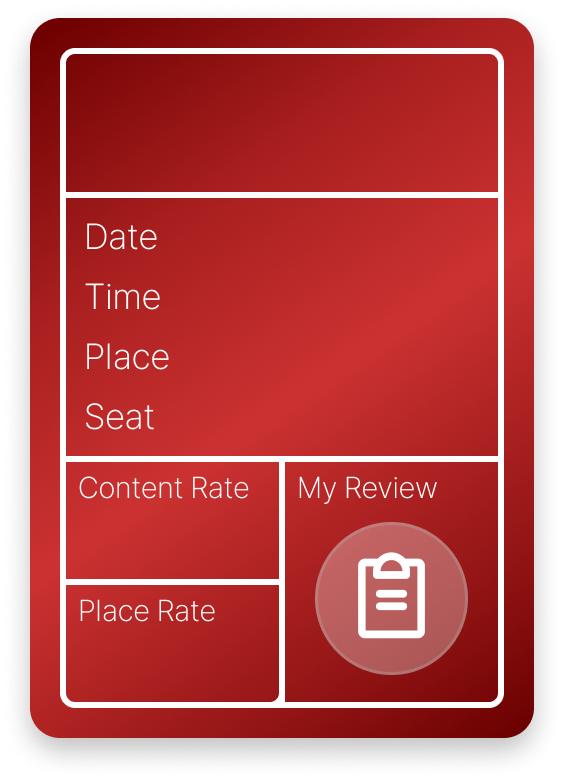
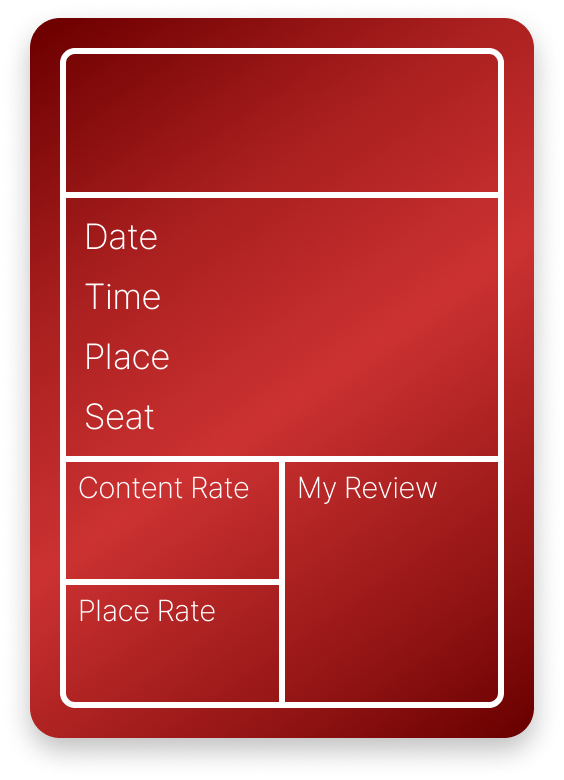
feat(ticketItem) : 티켓 스토리카드 버튼 적용

Changed region(s): [[0.5426, 0.6462, 0.844, 0.8923]]

diff --git a/frontend/src/components/TicketBook/TicketItem.js b/frontend/src/components/TicketBook/TicketItem.js
@@ -2,7 +2,7 @@ import React, { useRef, useState } from 'react';
 import { View, Text, ImageBackground, StyleSheet, Dimensions, Animated, TouchableWithoutFeedback, TouchableOpacity, Image, } from 'react-native';
 import { useNavigation } from '@react-navigation/native';
 
-import movieTicket from '../../images/ticekt_info_movie.png';
+import movieTicket from '../../images/ticket_info_movie.png';
 import performanceTicket from '../../images/ticket_info_performance.png';
 import sportsTicket from '../../images/ticket_info_sports.png';
 import playTicket from '../../images/ticket_info_play.png';
@@ -117,17 +117,25 @@ const TicketItem = ({ category, title, date, time, location, seat, contentsRatin
                 <View style={styles.bottomContainer}>
                   <Text numberOfLines={1} style={[styles.info, { marginTop: 12, textAlign: 'center' }]}>{contentsRating}</Text>
                 </View>
+                <View style={styles.buttonContainer}>
+                  <TouchableOpacity 
+                    onPress={reviewId !== 0 ? handleReviewClick : null} 
+                    style={[styles.reviewButton, { opacity: !isFront ? 1 : 0 }]}
+                    activeOpacity={reviewId !== 0 ? 0.2 : 1} // 터치 가능한 경우 activeOpacity 적용
+                    disabled={isFront} // isFront이 true일 때 버튼 비활성화
+                  >
+                    <Image 
+                      source={reviewId === 0 ? iconReviewOff : iconReviewOn} 
+                      style={{width: 50, height: 50}}
+                    />
+                  </TouchableOpacity>
+                </View>
               </View>
             </ImageBackground>
           </Animated.View>
         </View>
       </TouchableWithoutFeedback>
-      {
-        !isFront &&
-        <TouchableOpacity onPress={handleReviewClick} style={[styles.reviewButton, { opacity: reviewId === null ? 0.5 : 1 }]}>
-          <View style={{backgroundColor: 'transparent', width: 50, height: 50}}></View>
-        </TouchableOpacity>
-      }
+
     </>
   );
 };
@@ -205,6 +213,11 @@ const styles = StyleSheet.create({
     height: 50,
     justifyContent: 'center',
     alignItems: 'center',
+  },
+  buttonContainer: {
+    width: imageWidth*0.875,
+    height: imageHeight*0.1,
+    marginTop: imageHeight*0.03,
   },
 });
 
